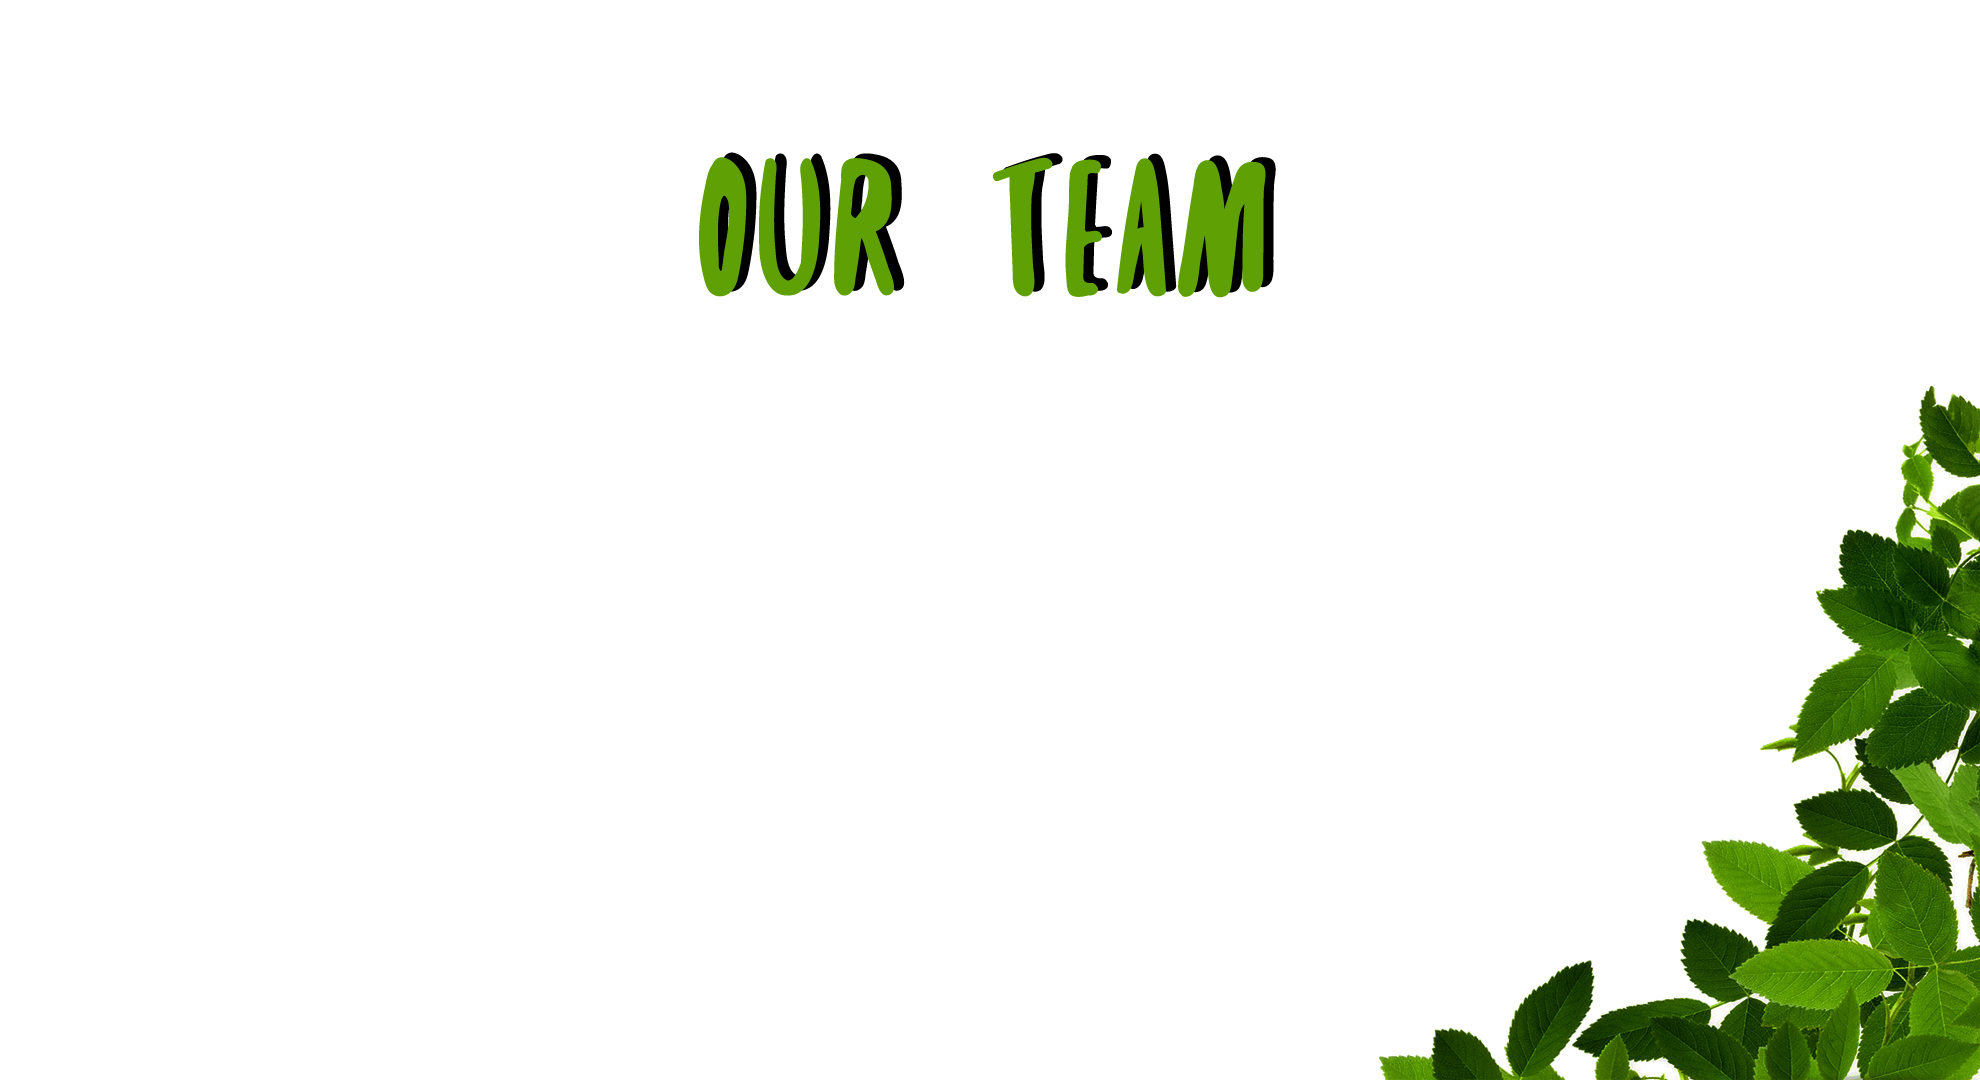
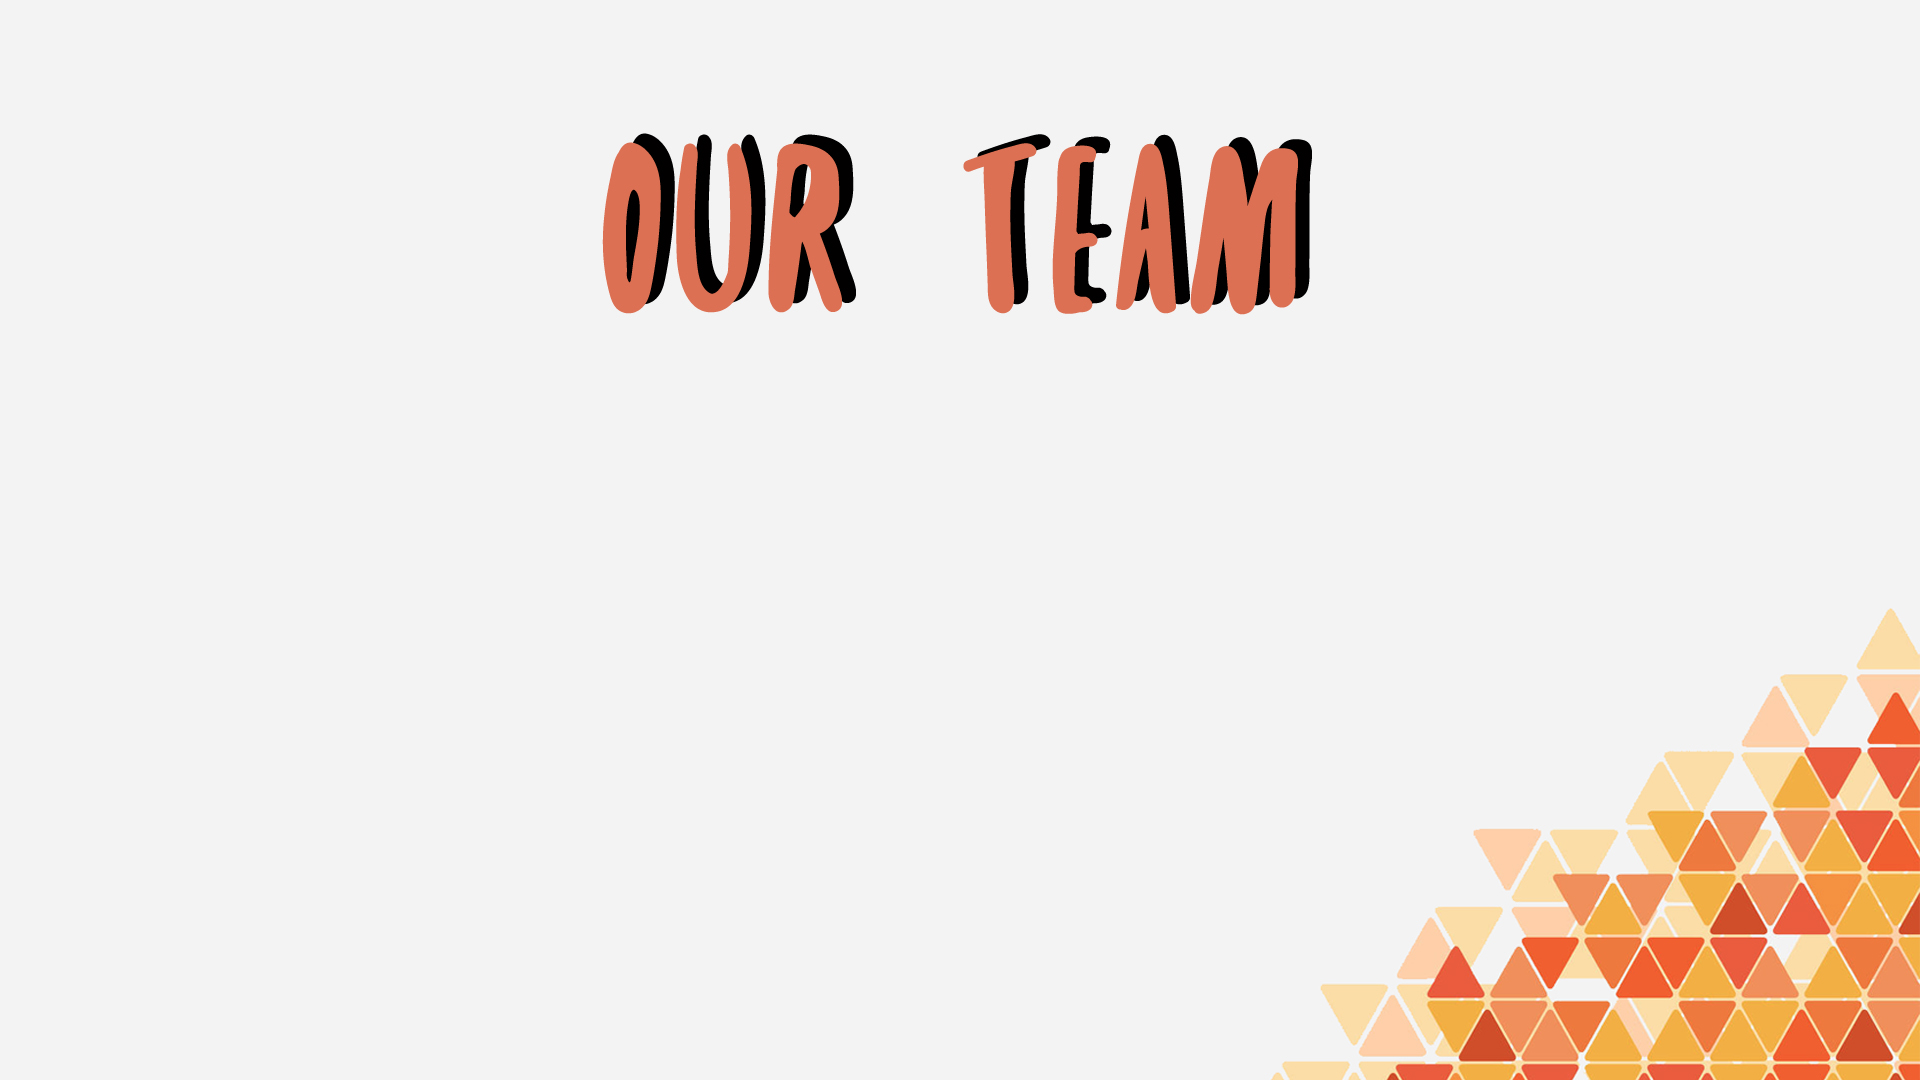
edit my BiFest2017 file

Changed region(s): [[0.6562, 0.3667, 1.0, 1.0], [0.5, 0.1222, 0.6875, 0.3056], [0.3125, 0.1222, 0.4688, 0.3056]]

diff --git a/BinusFestival2017/index.html b/BinusFestival2017/index.html
@@ -41,23 +41,29 @@
   <div id="home" class="container-fluid">
     <div>
     </div>
-  </div>
-      <div id="ourTeam" class="container">
-          <div class="row profile-picture">
-            <div class="col-md-4 col-sm-4 circle">
-              <img src="asset/img/Untitled-2.jpg"/>
-              <h3>Gambar 1</h3>
-              <p>Tes</p>
+  </div class="container">
+      <div id="ourTeam" class="profile-picture">
+          <div class="row container_name">
+            <div class="col-md-4">
+              <div class="name">
+                <img class="circle" src="asset/img/2101634691.jpg"/>
+                <h3>2101634691</h3>
+              </div>
+              <p>Gerry Lukman</p>
             </div>
-            <div class="col-md-4 col-sm-4 circle">
-              <img src="asset/img/Untitled-2.jpg"/>
-              <h3>Gambar 2</h3>
-              <p>Tes</p>
+            <div class="col-md-4">
+              <div class="name">
+                <img class="circle" src="asset/img/2101640403.jpg"/>
+                <h3>2101640403</h3>
+              </div>
+              <p>Rainer Geraldy Rhesa Ongke</p>
             </div>
-            <div class="col-md-4 col-sm-4 circle">
-              <img src="asset/img/Untitled-2.jpg"/>
-              <h3>Gambar 3</h3>
-              <p>Tes</p>
+            <div class="col-md-4">
+              <div class="name">
+                <img class="circle" src="asset/img/2101700586.jpg"/>
+                <h3>2101700586</h3>
+              </div>
+              <p>Afifa Ayu Widhiyanthi</p>
             </div>
           </div>
       </div>
@@ -95,7 +101,7 @@
               <div class="item active">
                 <img src="asset/img/daunbinahong.jpg" alt="Binahong">
                 <div class="carousel-caption">
-                  <h3>Daun Binahong</h3>
+                  Daun Binahong
                   <p></p>
                 </div>
               </div>
@@ -103,7 +109,7 @@
               <div class="item">
                 <img src="asset/img/daunkelor.jpg" alt="Kelor">
                 <div class="carousel-caption">
-                  <h3>Daun Kelor</h3> 
+                  Daun Kelor
                   <!-- PAKE UKURAN DAON KELOR AJAH -->
                   <p></p>
                 </div>
@@ -112,7 +118,7 @@
               <div class="item">
                 <img src="asset/img/daunmint.jpg" alt="Mint">
                 <div class="carousel-caption">
-                  <h3>Daun Mint</h3>
+                  Daun Mint
                   <p></p>
                 </div>
               </div>
@@ -120,7 +126,7 @@
               <div class="item">
                 <img src="asset/img/daunsemanggi.jpg" alt="Semanggi">
                 <div class="carousel-caption">
-                  <h3>Daun Semanggi</h3>
+                  Daun Semanggi
                   <p></p>
                 </div>
               </div>

diff --git a/asset/css/style.css b/asset/css/style.css
@@ -1,3 +1,8 @@
+* {
+  padding: 0;
+  margin: 0;
+}
+
 .navbar-inverse {
   background-color: #020202;
 }
@@ -6,7 +11,7 @@ body {
     color: black;
 }
 #home {
-  padding-top:50px;
+  padding-top:300px;
   height:100vh;
   color: #fff;
   background-color: #1E88E5;
@@ -20,72 +25,104 @@ body {
 #mid {
   text-align: center;
   width: 50%;
-  margin: 35vh auto;
+  margin: 0vh auto;
   text-shadow: 0 0 4px black;
+  margin-bottom: 0px;
 }
 #mid h1 {
-  margin-bottom: -35px;
-  font-weight: bold;
- }
+  margin-bottom: 0px;
+}
+
+.name{
+  display: block;
+}
+
+#ourTeam {
+  padding-top:300px;
+  height:100vh;
+  color: black;
+  background-color: #673ab7;
+  background: url("../img/ourteam.jpg") center center;
+  background-size: cover;
+  text-align: center;
+}
+#ourTeam img {
+  align: left;
+  margin: 0vh; 
+}
+.circle {
+  border-radius: 50%;
+  height: 20vw;
+}
+
+@media screen and (min-width: 400px) {
+  .profile-picture {
+    padding-top: -100px;
+  }
+  .container_name {
+    margin-top: -10px;
+  }
+  .circle {
+    border-radius: 50%;
+    height: 10vw;
+  }
+}
 
 
-
-#about {
-  padding-top:0.2vh;
+#story {
+  padding-top:300px;
   height:100vh;
   color: #fff;
-  background-color: #673ab7;
-  background: url("../img/about.jpg") center center;
+  background: url("../img/story.jpg") center center;
   background-size: cover;
 }
-#aboutmid {
+#str{
+  padding-bottom: 30px;
+}
+#storymid {
   text-align: center;
-  margin: 20vh auto;
-  width: 40%;
-  text-shadow: 0 0 4px black;
+  margin:auto;
+  width: 60%;
+  height: 60vh;
+  overflow-y:auto;
+  text-shadow: 3 5 4px black;
+  text-decoration-color: black;
 }
-#about img {
-  height: 30vh;
-  border-radius: 50%;
+#strmid::-webkit-scrollbar { 
+  /* This is the magic bit */
+  display: none;
 }
-#about h3 {
-  text-align: center; 
-  font-weight: bold;
+#story p {
+  color: black;
+  font-size: 18px;
 }
-#about p {
-  font-weight: bold;
-  font-size: 16px;
-}
+
+
 
   
 .prev, .next {
   transition: 0.2s ease;
 }
-#gallery {
-  padding-top:20vh;
+#photo {
+  padding-top:300px;
   height:100vh;
   color: #fff;
-  background: url("../img/gallery.jpg") center center;
+  background: url("../img/photo.jpg") center center;
   background-size: cover;
-  text-shadow: 0 0 4px black;
-  text-align: center;
-  font-weight: bold;
 }
-#gallery img{   
+#photo img{   
   width: 100%; 
   height: 100%;
   object-fit: contain;
 }
-#gall{
-  width: 50%;
+#photos{
+  width: 60vw;
   margin: auto;
-}
-.carousel-caption{
-  text-shadow: 0 0 4px black;
 }
 .carousel-indicators {
   margin-bottom: 20px;
 }
 .carousel-caption{
   margin-bottom: 10px;
+  font-size: 5vw;
 }

diff --git a/BinusFestival2017/asset/css/style.css b/BinusFestival2017/asset/css/style.css
@@ -1,3 +1,8 @@
+* {
+  padding: 0;
+  margin: 0;
+}
+
 .navbar-inverse {
   background-color: #020202;
 }
@@ -28,7 +33,9 @@ body {
   margin-bottom: 0px;
 }
 
-
+.name{
+  display: block;
+}
 
 #ourTeam {
   padding-top:300px;
@@ -44,21 +51,21 @@ body {
   margin: 0vh; 
 }
 .circle {
-
+  border-radius: 50%;
+  height: 20vw;
 }
 
-@media screen and (min-width: 200px) {
+@media screen and (min-width: 400px) {
   .profile-picture {
     padding-top: -100px;
   }
-  .circle img {
-    border-radius: 50%;
-    height: 10vh;
+  .container_name {
+    margin-top: -10px;
   }
-}
-.circle img {
-  border-radius: 50%;
-  height: 20vh;
+  .circle {
+    border-radius: 50%;
+    height: 10vw;
+  }
 }
 
 
@@ -109,7 +116,7 @@ body {
   object-fit: contain;
 }
 #photos{
-  width: 60%;
+  width: 60vw;
   margin: auto;
 }
 .carousel-indicators {
@@ -117,4 +124,5 @@ body {
 }
 .carousel-caption{
   margin-bottom: 10px;
+  font-size: 5vw;
 }
